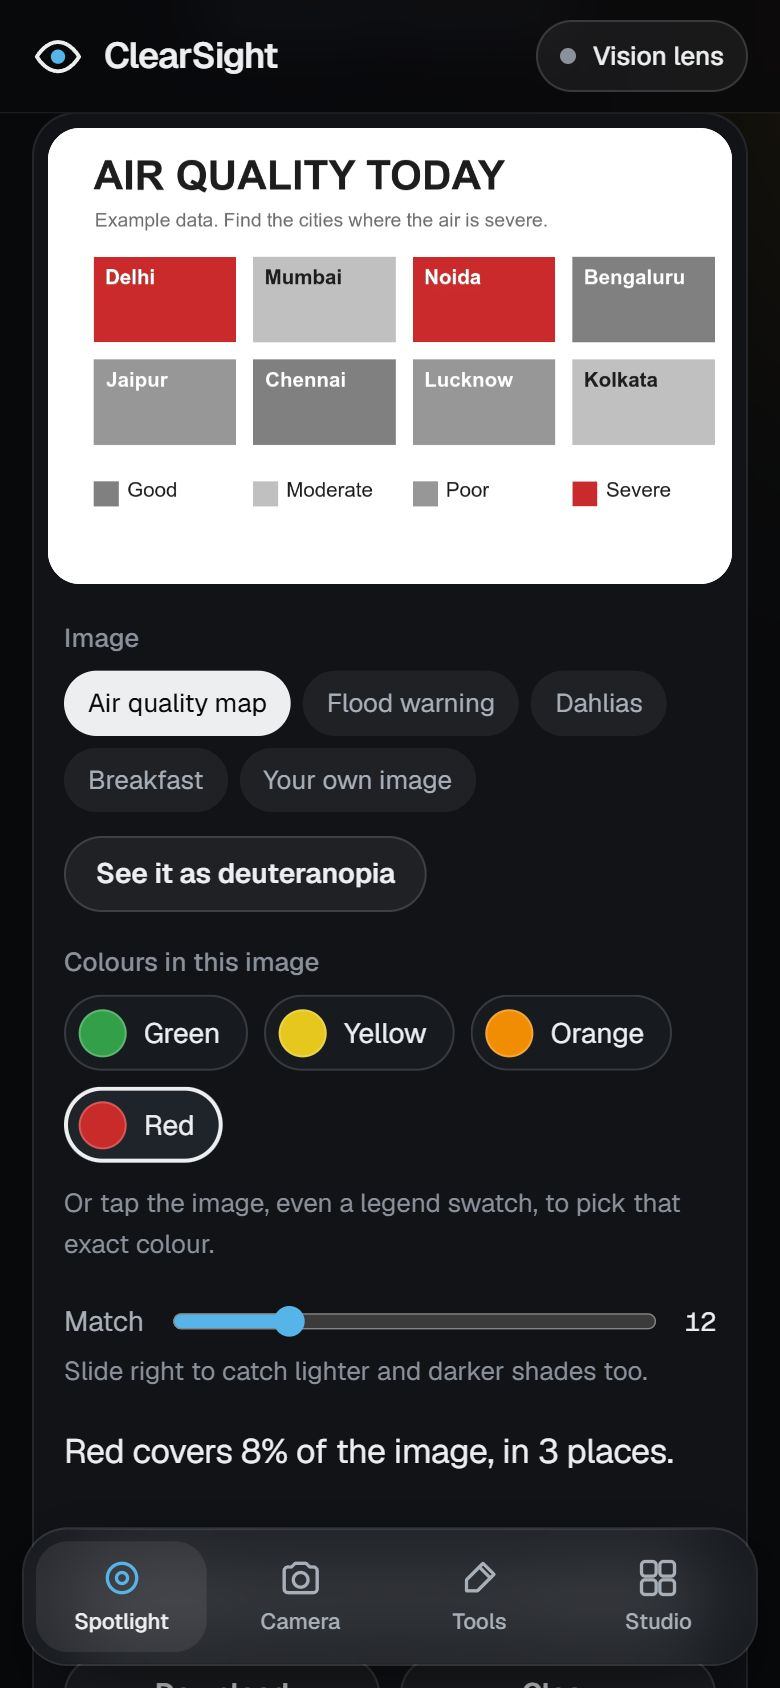
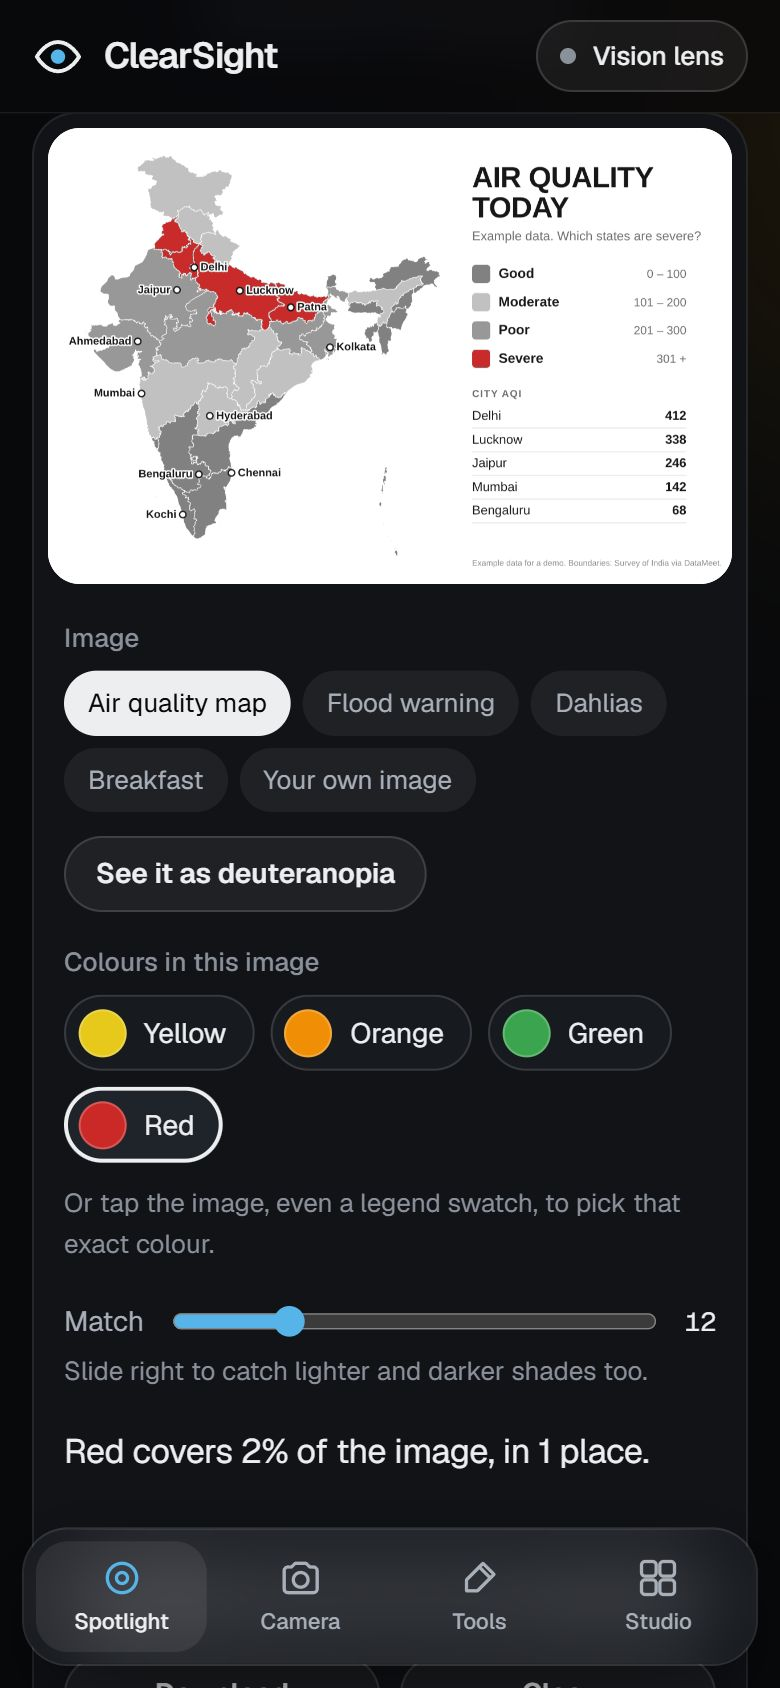
Real India air-quality map, centred hero and nav
- Air-quality sample is now a map of India (Survey of India boundaries via DataMeet), states coloured by example AQI, built by tools/make-map.js, stored and rasterised by Cloudinary
- The site opens on the map
- Hero sticker and nav links sit exactly on the page centre; desktop links hide below 900px
- Guide, write-up and screenshots updated

diff --git a/site/index.html b/site/index.html
@@ -120,7 +120,7 @@
   .hero h1 .line { display: block; }
   .hero h1 .w { display: inline-block; }
   .hero h1 .soft { color: var(--muted); }
-  .hero .sub { margin: 24px auto 0; max-width: 600px; font-size: 19px; color: var(--muted); }
+  .hero .sub { margin: 56px auto 0; max-width: 600px; font-size: 19px; color: var(--muted); }
   .ctas { display: flex; gap: 12px; justify-content: center; margin-top: 36px; }
   .js .rise { opacity: 0; transform: translateY(18px); filter: blur(8px); animation: rise .9s var(--ease) forwards; animation-delay: var(--d, 0ms); }
   @keyframes rise { to { opacity: 1; transform: none; filter: blur(0); } }
@@ -521,8 +521,9 @@
   @property --t3 { syntax: "<color>"; inherits: true; initial-value: #2fd36b; }
   .hero h1 .tint { transition: --t1 1.1s var(--ease-io), --t2 1.1s var(--ease-io), --t3 1.1s var(--ease-io); }
   .hero h1 .tint .w { background: linear-gradient(100deg, var(--t1), var(--t2)); -webkit-background-clip: text; background-clip: text; color: transparent; padding-bottom: .06em; }
-  .hero h1 .tint .eye { position: relative; background-image: linear-gradient(100deg, var(--t2), var(--t3)); }
-  .vtag { position: absolute; left: calc(100% - .2em); top: .05em; transform: rotate(-6deg); padding: 6px 12px; border-radius: 999px; background: var(--text); color: var(--bg); font: 600 13px/1 var(--mono); letter-spacing: 0; white-space: nowrap; box-shadow: 0 10px 30px rgba(0,0,0,.45); -webkit-text-fill-color: var(--bg); transition: opacity .3s var(--ease); }
+  .hero h1 .tint { position: relative; }
+  .hero h1 .tint .eye { background-image: linear-gradient(100deg, var(--t2), var(--t3)); }
+  .vtag { position: absolute; left: 50%; top: calc(100% + 6px); transform: translateX(-50%) rotate(-3deg); padding: 6px 12px; border-radius: 999px; background: var(--text); color: var(--bg); font: 600 13px/1 var(--mono); letter-spacing: 0; white-space: nowrap; box-shadow: 0 10px 30px rgba(0,0,0,.45); -webkit-text-fill-color: var(--bg); transition: opacity .3s var(--ease); }
   .vtag.swap { opacity: 0; }
   @media (forced-colors: active) { .hero h1 .tint .w { background: none; color: CanvasText; } .vtag { forced-color-adjust: auto; } }
 
@@ -547,9 +548,7 @@
   .dock { display: none; }
 
   @media (max-width: 1020px) {
-    .nav .wrap { grid-template-columns: auto 1fr auto; gap: 12px; }
-    .nav-links { justify-content: center; }
-    .nav-links a { padding: 8px 10px; }
+    .nav-links a { padding: 8px 8px; }
     .grid { grid-template-columns: repeat(3, minmax(0, 1fr)); }
     .card[data-group="base"] { grid-row: auto; }
     .summary { grid-template-columns: repeat(2, 1fr); }
@@ -557,6 +556,8 @@
     .foot-grid { grid-template-columns: repeat(3, 1fr); }
     .foot-grid > div:first-child { grid-column: 1 / -1; }
   }
+
+  @media (max-width: 900px) { .nav-links { display: none; } }
 
   @media (max-width: 760px) {
     body { font-size: 16px; padding-bottom: calc(84px + env(safe-area-inset-bottom)); }
@@ -580,8 +581,8 @@
     /* Hero */
     .hero { padding: 48px 0 24px; }
     .hero h1 { margin-top: 22px; font-size: clamp(46px, 14.5vw, 64px); }
-    .vtag { left: auto; right: 0; top: auto; bottom: -22px; transform: rotate(-4deg); font-size: 11px; padding: 5px 10px; }
-    .hero .sub { margin-top: 34px; font-size: 17px; }
+    .vtag { font-size: 11px; padding: 5px 10px; }
+    .hero .sub { margin-top: 48px; font-size: 17px; }
     .ctas { flex-direction: column; align-items: stretch; max-width: 340px; margin: 28px auto 0; }
     .demo { margin-top: 36px; padding: 6px; border-radius: 22px; }
     .dcmp { border-radius: 16px; }
@@ -815,7 +816,7 @@
   <header class="hero">
     <div class="wrap">
       <span class="hero-pill rise" style="--d:0ms"><b>Free</b>Open source · built on Cloudinary</span>
-      <h1><span class="line"><span class="w rise" style="--d:80ms">Design</span> <span class="w rise" style="--d:140ms">for</span></span> <span class="line tint" id="tint"><span class="w rise" style="--d:200ms">every</span> <span class="w rise eye" style="--d:260ms">eye.<span class="vtag" id="vtag" aria-hidden="true">normal vision</span></span></span></h1>
+      <h1><span class="line"><span class="w rise" style="--d:80ms">Design</span> <span class="w rise" style="--d:140ms">for</span></span> <span class="line tint" id="tint"><span class="w rise" style="--d:200ms">every</span> <span class="w rise eye" style="--d:260ms">eye.</span><span class="vtag" id="vtag" aria-hidden="true">normal vision</span></span></h1>
       <p class="sub rise" style="--d:340ms">See your poster the way colour-blind, low-vision and offline readers do. Then fix it in one click.</p>
       <div class="ctas rise" style="--d:420ms">
         <a class="btn sky" href="#studio">Check your poster</a>
@@ -1284,8 +1285,8 @@
   const SAMPLES = [
     { id: "poster", label: "Flood warning", path: "sample.png", base: POSTER,
       alt: "Flood warning. Find your zone on the map. Zone A, red: evacuate now. Zone B, amber: get ready. Zone C, green: safe." },
-    { id: "aqi", label: "Air quality", path: "sample.png", base: "c_fill,w_1200,h_800/e_colorize:100,co_rgb:ffffff/l_text:Arial_72_bold:AIR%20QUALITY%20TODAY,co_rgb:1d1d1f/fl_layer_apply,g_north_west,x_80,y_56/l_text:Arial_34:Example%20data.%20Find%20the%20cities%20where%20the%20air%20is%20severe.,co_rgb:6e6e73/fl_layer_apply,g_north_west,x_84,y_148/l_sample/c_fill,w_250,h_150/e_colorize:100,co_rgb:c92a2a/fl_layer_apply,g_north_west,x_80,y_226/l_text:Arial_36_bold:Delhi,co_rgb:ffffff/fl_layer_apply,g_north_west,x_102,y_248/l_sample/c_fill,w_250,h_150/e_colorize:100,co_rgb:e6c619/fl_layer_apply,g_north_west,x_360,y_226/l_text:Arial_36_bold:Mumbai,co_rgb:1d1d1f/fl_layer_apply,g_north_west,x_382,y_248/l_sample/c_fill,w_250,h_150/e_colorize:100,co_rgb:c92a2a/fl_layer_apply,g_north_west,x_640,y_226/l_text:Arial_36_bold:Noida,co_rgb:ffffff/fl_layer_apply,g_north_west,x_662,y_248/l_sample/c_fill,w_250,h_150/e_colorize:100,co_rgb:2e9e44/fl_layer_apply,g_north_west,x_920,y_226/l_text:Arial_36_bold:Bengaluru,co_rgb:ffffff/fl_layer_apply,g_north_west,x_942,y_248/l_sample/c_fill,w_250,h_150/e_colorize:100,co_rgb:f08c00/fl_layer_apply,g_north_west,x_80,y_406/l_text:Arial_36_bold:Jaipur,co_rgb:ffffff/fl_layer_apply,g_north_west,x_102,y_428/l_sample/c_fill,w_250,h_150/e_colorize:100,co_rgb:2e9e44/fl_layer_apply,g_north_west,x_360,y_406/l_text:Arial_36_bold:Chennai,co_rgb:ffffff/fl_layer_apply,g_north_west,x_382,y_428/l_sample/c_fill,w_250,h_150/e_colorize:100,co_rgb:f08c00/fl_layer_apply,g_north_west,x_640,y_406/l_text:Arial_36_bold:Lucknow,co_rgb:ffffff/fl_layer_apply,g_north_west,x_662,y_428/l_sample/c_fill,w_250,h_150/e_colorize:100,co_rgb:e6c619/fl_layer_apply,g_north_west,x_920,y_406/l_text:Arial_36_bold:Kolkata,co_rgb:1d1d1f/fl_layer_apply,g_north_west,x_942,y_428/l_sample/c_fill,w_44,h_44/e_colorize:100,co_rgb:2e9e44/fl_layer_apply,g_north_west,x_80,y_620/l_text:Arial_36:Good,co_rgb:1d1d1f/fl_layer_apply,g_north_west,x_140,y_621/l_sample/c_fill,w_44,h_44/e_colorize:100,co_rgb:e6c619/fl_layer_apply,g_north_west,x_360,y_620/l_text:Arial_36:Moderate,co_rgb:1d1d1f/fl_layer_apply,g_north_west,x_420,y_621/l_sample/c_fill,w_44,h_44/e_colorize:100,co_rgb:f08c00/fl_layer_apply,g_north_west,x_640,y_620/l_text:Arial_36:Poor,co_rgb:1d1d1f/fl_layer_apply,g_north_west,x_700,y_621/l_sample/c_fill,w_44,h_44/e_colorize:100,co_rgb:c92a2a/fl_layer_apply,g_north_west,x_920,y_620/l_text:Arial_36:Severe,co_rgb:1d1d1f/fl_layer_apply,g_north_west,x_980,y_621",
-      alt: "Example air-quality map. Delhi: severe. Mumbai: moderate. Noida: severe. Bengaluru: good. Jaipur: poor. Chennai: good. Lucknow: poor. Kolkata: moderate. Legend: green good, yellow moderate, orange poor, red severe." },
+    { id: "aqi", label: "Air quality", cloud: "mlmzknvx", path: "v1793413614/ovusi5hcw0v15vpmvaxg.png", base: "",
+      alt: "Example air-quality map of India by state. Severe: Delhi, Punjab, Haryana, Uttar Pradesh, Bihar. Poor: Rajasthan, Gujarat, Madhya Pradesh, Jharkhand, West Bengal. Moderate: Jammu and Kashmir, Himachal Pradesh, Uttarakhand, Maharashtra, Chhattisgarh, Odisha, Telangana, Assam. Good: the southern and north-eastern states. City AQI: Delhi 412, Lucknow 338, Jaipur 246, Mumbai 142, Bengaluru 68." },
     { id: "dahlias", label: "Red dahlias", path: "sample.jpg", alt: "Pink-red dahlias with a bee, surrounded by green leaves." },
     { id: "court", label: "Basketball", path: "cld-sample-3.jpg", alt: "Basketball players jumping for the ball on a brightly painted court." },
     { id: "breakfast", label: "Breakfast", path: "cld-sample-4.jpg", alt: "A breakfast table with bowls of fruit, porridge and toast." },
@@ -1561,7 +1562,7 @@
   }
 
   // ---------- Sources ----------
-  function sampleSource(s) { return { cloud: DEMO, base: s.base || "", path: s.path, label: s.label, alt: s.alt, sampleId: s.id }; }
+  function sampleSource(s) { return { cloud: s.cloud || DEMO, base: s.base || "", path: s.path, label: s.label, alt: s.alt, sampleId: s.id }; }
 
   function recent() { return store.get("cs_recent", []).filter(r => r && CLOUD_RE.test(r.cloud) && PATH_RE.test(r.path)); }
 
@@ -3214,7 +3215,7 @@
   bindPublish();
   bindFilters();
   setPos(50);
-  state.src = sourceFromHash() || sampleSource(SAMPLES[0]);
+  state.src = sourceFromHash() || sampleSource(SAMPLES.find(s => s.id === "aqi") || SAMPLES[0]);
   renderSamples();
   select(state.src);
   window.addEventListener("hashchange", () => {

diff --git a/tools/make-map.js b/tools/make-map.js
@@ -1,0 +1,95 @@
+// Builds the "Air quality today" India map poster as an SVG (example data), 1500 x 1000.
+// Boundaries: DataMeet states GeoJSON (Survey of India based). Usage: node make-map.js states.geojson out.svg
+// Get the boundaries from https://cdn.jsdelivr.net/gh/datameet/maps@master/website/docs/data/geojson/states.geojson, then upload the SVG to Cloudinary.
+const fs = require('fs');
+const [src, out] = process.argv.slice(2);
+const g = JSON.parse(fs.readFileSync(src, 'utf8'));
+
+const AQI = { good: '#2e9e44', moderate: '#e6c619', poor: '#f08c00', severe: '#c92a2a' };
+const LEVEL = {
+  severe: ['NCT of Delhi', 'Haryana', 'Punjab', 'Uttar Pradesh', 'Bihar', 'Chandigarh'],
+  poor: ['Rajasthan', 'Madhya Pradesh', 'West Bengal', 'Jharkhand', 'Gujarat'],
+  moderate: ['Maharashtra', 'Chhattisgarh', 'Odisha', 'Telangana', 'Assam', 'Uttarakhand', 'Himachal Pradesh', 'Jammu & Kashmir', 'Daman & Diu', 'Dadara & Nagar Havelli'],
+};
+const levelOf = name => Object.keys(LEVEL).find(k => LEVEL[k].includes(name)) || 'good';
+
+// Projection: equirectangular with the x axis scaled for latitude ~23°N, fitted into the map box.
+const BOX = { x: 70, y: 60, w: 800, h: 880 };
+const K = Math.cos(23 * Math.PI / 180);
+const [minX, minY, maxX, maxY] = [68.18, 6.75, 97.42, 37.08];
+const s = Math.min(BOX.w / ((maxX - minX) * K), BOX.h / (maxY - minY));
+const ox = BOX.x + (BOX.w - (maxX - minX) * K * s) / 2, oy = BOX.y + (BOX.h - (maxY - minY) * s) / 2;
+const P = ([lon, lat]) => [ox + (lon - minX) * K * s, oy + (maxY - lat) * s];
+
+// Douglas-Peucker in screen pixels.
+function simplify(pts, tol) {
+  if (pts.length < 4) return pts;
+  const keep = new Uint8Array(pts.length); keep[0] = keep[pts.length - 1] = 1;
+  const stack = [[0, pts.length - 1]];
+  while (stack.length) {
+    const [a, b] = stack.pop(); let idx = -1, dmax = tol;
+    const [x1, y1] = pts[a], [x2, y2] = pts[b], dx = x2 - x1, dy = y2 - y1, L = Math.hypot(dx, dy);
+    // Closed rings start and end on the same point: measure distance to that point instead of a line.
+    for (let i = a + 1; i < b; i++) { const d = L ? Math.abs(dy * pts[i][0] - dx * pts[i][1] + x2 * y1 - y2 * x1) / L : Math.hypot(pts[i][0] - x1, pts[i][1] - y1); if (d > dmax) { dmax = d; idx = i; } }
+    if (idx > 0) { keep[idx] = 1; stack.push([a, idx], [idx, b]); }
+  }
+  return pts.filter((_, i) => keep[i]);
+}
+const area = r => { let A = 0; for (let i = 0; i < r.length; i++) { const [x1, y1] = r[i], [x2, y2] = r[(i + 1) % r.length]; A += x1 * y2 - x2 * y1; } return Math.abs(A / 2); };
+const ringPath = ring => { const p = simplify(ring.map(P), 0.6); return p.length < 3 || area(p) < 1.5 ? '' : 'M' + p.map(([x, y]) => x.toFixed(1) + ' ' + y.toFixed(1)).join('L') + 'Z'; };
+
+let states = '';
+for (const f of g.features) {
+  const polys = f.geometry.type === 'Polygon' ? [f.geometry.coordinates] : f.geometry.coordinates;
+  const d = polys.map(poly => poly.map(ringPath).join('')).join('');
+  if (d) states += `<path d="${d}" fill="${AQI[levelOf(f.properties.ST_NM)]}"/>`;
+}
+
+// Cities (example readings), placed by real coordinates.
+const CITIES = [
+  ['Delhi', 77.21, 28.61, 412, 'severe', 'r'], ['Lucknow', 80.95, 26.85, 338, 'severe', 'r'], ['Patna', 85.14, 25.59, 321, 'severe', 'r'],
+  ['Jaipur', 75.79, 26.91, 246, 'poor', 'l'], ['Kolkata', 88.36, 22.57, 214, 'poor', 'r'], ['Ahmedabad', 72.57, 23.02, 228, 'poor', 'l'],
+  ['Mumbai', 72.88, 19.08, 142, 'moderate', 'l'], ['Hyderabad', 78.49, 17.39, 118, 'moderate', 'r'],
+  ['Bengaluru', 77.59, 12.97, 68, 'good', 'l'], ['Chennai', 80.27, 13.08, 74, 'good', 'r'], ['Kochi', 76.27, 9.93, 41, 'good', 'l'],
+];
+let cities = '';
+for (const [name, lon, lat, , , side] of CITIES) {
+  const [x, y] = P([lon, lat]);
+  const tx = side === 'r' ? x + 14 : x - 14, anchor = side === 'r' ? 'start' : 'end';
+  cities += `<circle cx="${x.toFixed(1)}" cy="${y.toFixed(1)}" r="7" fill="#ffffff" stroke="#1d1d1f" stroke-width="3"/>`;
+  cities += `<text x="${tx.toFixed(1)}" y="${(y + 7).toFixed(1)}" text-anchor="${anchor}" class="city">${name}</text>`;
+}
+
+// Right-hand panel: title, legend with Indian AQI bands, city readings.
+const PX = 930;
+const legend = [['Good', '0 – 100', 'good'], ['Moderate', '101 – 200', 'moderate'], ['Poor', '201 – 300', 'poor'], ['Severe', '301 +', 'severe']]
+  .map(([label, range, k], i) => { const y = 300 + i * 62; return `<rect x="${PX}" y="${y}" width="40" height="40" rx="8" fill="${AQI[k]}"/><text x="${PX + 58}" y="${y + 29}" class="lg">${label}</text><text x="${PX + 470}" y="${y + 29}" text-anchor="end" class="rg">${range}</text>`; }).join('');
+const readings = CITIES.filter((_, i) => [0, 1, 3, 6, 8].includes(i))
+  .map(([name, , , v], i) => { const y = 640 + i * 52; return `<text x="${PX}" y="${y}" class="rd">${name}</text><text x="${PX + 470}" y="${y}" text-anchor="end" class="rv">${v}</text><line x1="${PX}" x2="${PX + 470}" y1="${y + 18}" y2="${y + 18}" stroke="#e3e3e6" stroke-width="2"/>`; }).join('');
+
+const svg = `<svg xmlns="http://www.w3.org/2000/svg" width="1500" height="1000" viewBox="0 0 1500 1000">
+<style>
+  text { font-family: Arial, Helvetica, sans-serif; fill: #1d1d1f; }
+  .t { font-size: 64px; font-weight: 700; letter-spacing: -1px; }
+  .st { font-size: 28px; fill: #6e6e73; }
+  .h { font-size: 22px; font-weight: 700; fill: #6e6e73; letter-spacing: 2px; }
+  .lg { font-size: 30px; font-weight: 700; }
+  .rg { font-size: 26px; fill: #6e6e73; }
+  .rd { font-size: 28px; }
+  .rv { font-size: 28px; font-weight: 700; }
+  .city { font-size: 24px; font-weight: 700; paint-order: stroke; stroke: #ffffff; stroke-width: 6px; stroke-linejoin: round; }
+  .src { font-size: 18px; fill: #8e8e93; }
+</style>
+<rect width="1500" height="1000" fill="#ffffff"/>
+<g stroke="#ffffff" stroke-width="1.4" stroke-linejoin="round">${states}</g>
+<g>${cities}</g>
+<text x="${PX}" y="130" class="t">AIR QUALITY</text>
+<text x="${PX}" y="196" class="t">TODAY</text>
+<text x="${PX}" y="246" class="st">Example data. Which states are severe?</text>
+${legend}
+<text x="${PX}" y="590" class="h">CITY AQI</text>
+${readings}
+<text x="${PX}" y="960" class="src">Example data for a demo. Boundaries: Survey of India via DataMeet.</text>
+</svg>`;
+fs.writeFileSync(out, svg);
+console.log('wrote', out, (svg.length / 1024).toFixed(0) + ' KB');

diff --git a/docs/NOTION.html b/docs/NOTION.html
@@ -49,7 +49,7 @@ One public notice in, a full accessibility pack out: colour-blind-safe, low-visi
 <h3>Which part is red? (Colour Spotlight)</h3>
 <p>Research kept pointing at the same problem: colour used as the only label. One colour-blind writer puts it bluntly: matching a chart’s legend to the chart is “impossible”, so many skip pie charts altogether (<a href="https://wearecolorblind.com/examples/google-analytics/">We Are Colorblind</a>). Recolouring filters (“daltonisation”) are often criticised for making images look unnatural.</p>
 <p>So the Spotlight doesn’t recolour anything. Tap a colour chip, or tap any spot on the image (a legend swatch works), and only that colour stays in colour while everything else turns grey. Cloudinary does the finding: <code>e_make_transparent</code> cuts the chosen colour out, <code>e_grayscale</code> greys the rest, and the browser lays that over the original. ClearSight then counts the transparent pixels and says, for example, “Red covers 8% of the image, in 3 places.”</p>
-<p>The demo uses an <strong>example air-quality map</strong> with a Good / Moderate / Poor / Severe legend. Switch on “See it as deuteranopia” and the severe, poor and good tiles blur together; tap “Red” and Delhi and Noida light up. A match slider catches lighter and darker shades in photos, and the result downloads as a PNG.</p>
+<p>The demo uses an <strong>example air-quality map of India</strong>: state boundaries from DataMeet (based on Survey of India), each state coloured by an example AQI category, with city markers and India&#39;s AQI bands (Good 0–100, Moderate 101–200, Poor 201–300, Severe 301+). Switch on “See it as deuteranopia” and the severe north and the clean south turn the same olive; tap “Red” and only the northern belt from Punjab to Bihar keeps its colour. The map is an SVG we generate, stored on Cloudinary, which rasterises it at any size and format.</p>
 <h3>The fix, proven on a real-style notice</h3>
 <p>The demo includes a <strong>flood-warning poster built entirely from Cloudinary overlays</strong>: three colour-coded zones (red “Evacuate now”, amber “Get ready”, green “Safe”). Under Cloudinary’s deuteranopia simulation, the red and green zones <strong>turn almost the same olive colour</strong>. With Cloudinary’s <code>e_assist_colorblind</code>, red gets horizontal stripes and green gets vertical ones, so the zones are distinguishable again. They stay distinguishable even after conversion to black and white.</p>
 <h3>The pack</h3>

diff --git a/docs/GUIDE.html b/docs/GUIDE.html
@@ -127,7 +127,7 @@
 <li>Read the answer: <em>“Red covers 8% of the image, in 3 places.”</em></li>
 <li>Optional: <strong>See it as deuteranopia</strong> (feel the problem first), <strong>Hold to see all colours</strong> (compare), the <strong>Match</strong> slider (catch lighter and darker shades in photos), <strong>Download</strong>, <strong>Clear</strong>.</li>
 </ol>
-<p><strong>The demo moment.</strong> On the air-quality map, switch on <em>See it as deuteranopia</em>: red, orange and green tiles turn into similar olives. Tap the <em>Severe</em> legend swatch: only Delhi and Noida light up.</p>
+<p><strong>The demo moment.</strong> The air-quality sample is a real map of India (Survey of India boundaries via DataMeet), with states coloured by example AQI. Switch on <em>See it as deuteranopia</em>: the severe north and the clean south turn the same olive. Tap the <em>Severe</em> legend swatch: only Punjab, Haryana, Delhi, Uttar Pradesh and Bihar keep their colour. The map is an SVG made by a small script, stored on Cloudinary and rasterised by Cloudinary on request. It is the image the site opens on.</p>
 <p><strong>How it works.</strong></p>
 <ul>
 <li><strong>Cloudinary</strong> <code>e_make_transparent:&lt;tolerance&gt;,co_rgb:&lt;colour&gt;</code> cuts the chosen colour out of the image, and <code>e_grayscale</code> greys the rest.</li>

diff --git a/docs/NOTION.md b/docs/NOTION.md
@@ -33,7 +33,7 @@ Research kept pointing at the same problem: colour used as the only label. One c
 
 So the Spotlight doesn’t recolour anything. Tap a colour chip, or tap any spot on the image (a legend swatch works), and only that colour stays in colour while everything else turns grey. Cloudinary does the finding: `e_make_transparent` cuts the chosen colour out, `e_grayscale` greys the rest, and the browser lays that over the original. ClearSight then counts the transparent pixels and says, for example, “Red covers 8% of the image, in 3 places.”
 
-The demo uses an **example air-quality map** with a Good / Moderate / Poor / Severe legend. Switch on “See it as deuteranopia” and the severe, poor and good tiles blur together; tap “Red” and Delhi and Noida light up. A match slider catches lighter and darker shades in photos, and the result downloads as a PNG.
+The demo uses an **example air-quality map of India**: state boundaries from DataMeet (based on Survey of India), each state coloured by an example AQI category, with city markers and India's AQI bands (Good 0–100, Moderate 101–200, Poor 201–300, Severe 301+). Switch on “See it as deuteranopia” and the severe north and the clean south turn the same olive; tap “Red” and only the northern belt from Punjab to Bihar keeps its colour. The map is an SVG we generate, stored on Cloudinary, which rasterises it at any size and format.
 
 ### The fix, proven on a real-style notice
 

diff --git a/docs/GUIDE.md b/docs/GUIDE.md
@@ -75,7 +75,7 @@
 3. Read the answer: *“Red covers 8% of the image, in 3 places.”*
 4. Optional: **See it as deuteranopia** (feel the problem first), **Hold to see all colours** (compare), the **Match** slider (catch lighter and darker shades in photos), **Download**, **Clear**.
 
-**The demo moment.** On the air-quality map, switch on *See it as deuteranopia*: red, orange and green tiles turn into similar olives. Tap the *Severe* legend swatch: only Delhi and Noida light up.
+**The demo moment.** The air-quality sample is a real map of India (Survey of India boundaries via DataMeet), with states coloured by example AQI. Switch on *See it as deuteranopia*: the severe north and the clean south turn the same olive. Tap the *Severe* legend swatch: only Punjab, Haryana, Delhi, Uttar Pradesh and Bihar keep their colour. The map is an SVG made by a small script, stored on Cloudinary and rasterised by Cloudinary on request. It is the image the site opens on.
 
 **How it works.**
 - **Cloudinary** `e_make_transparent:<tolerance>,co_rgb:<colour>` cuts the chosen colour out of the image, and `e_grayscale` greys the rest.
